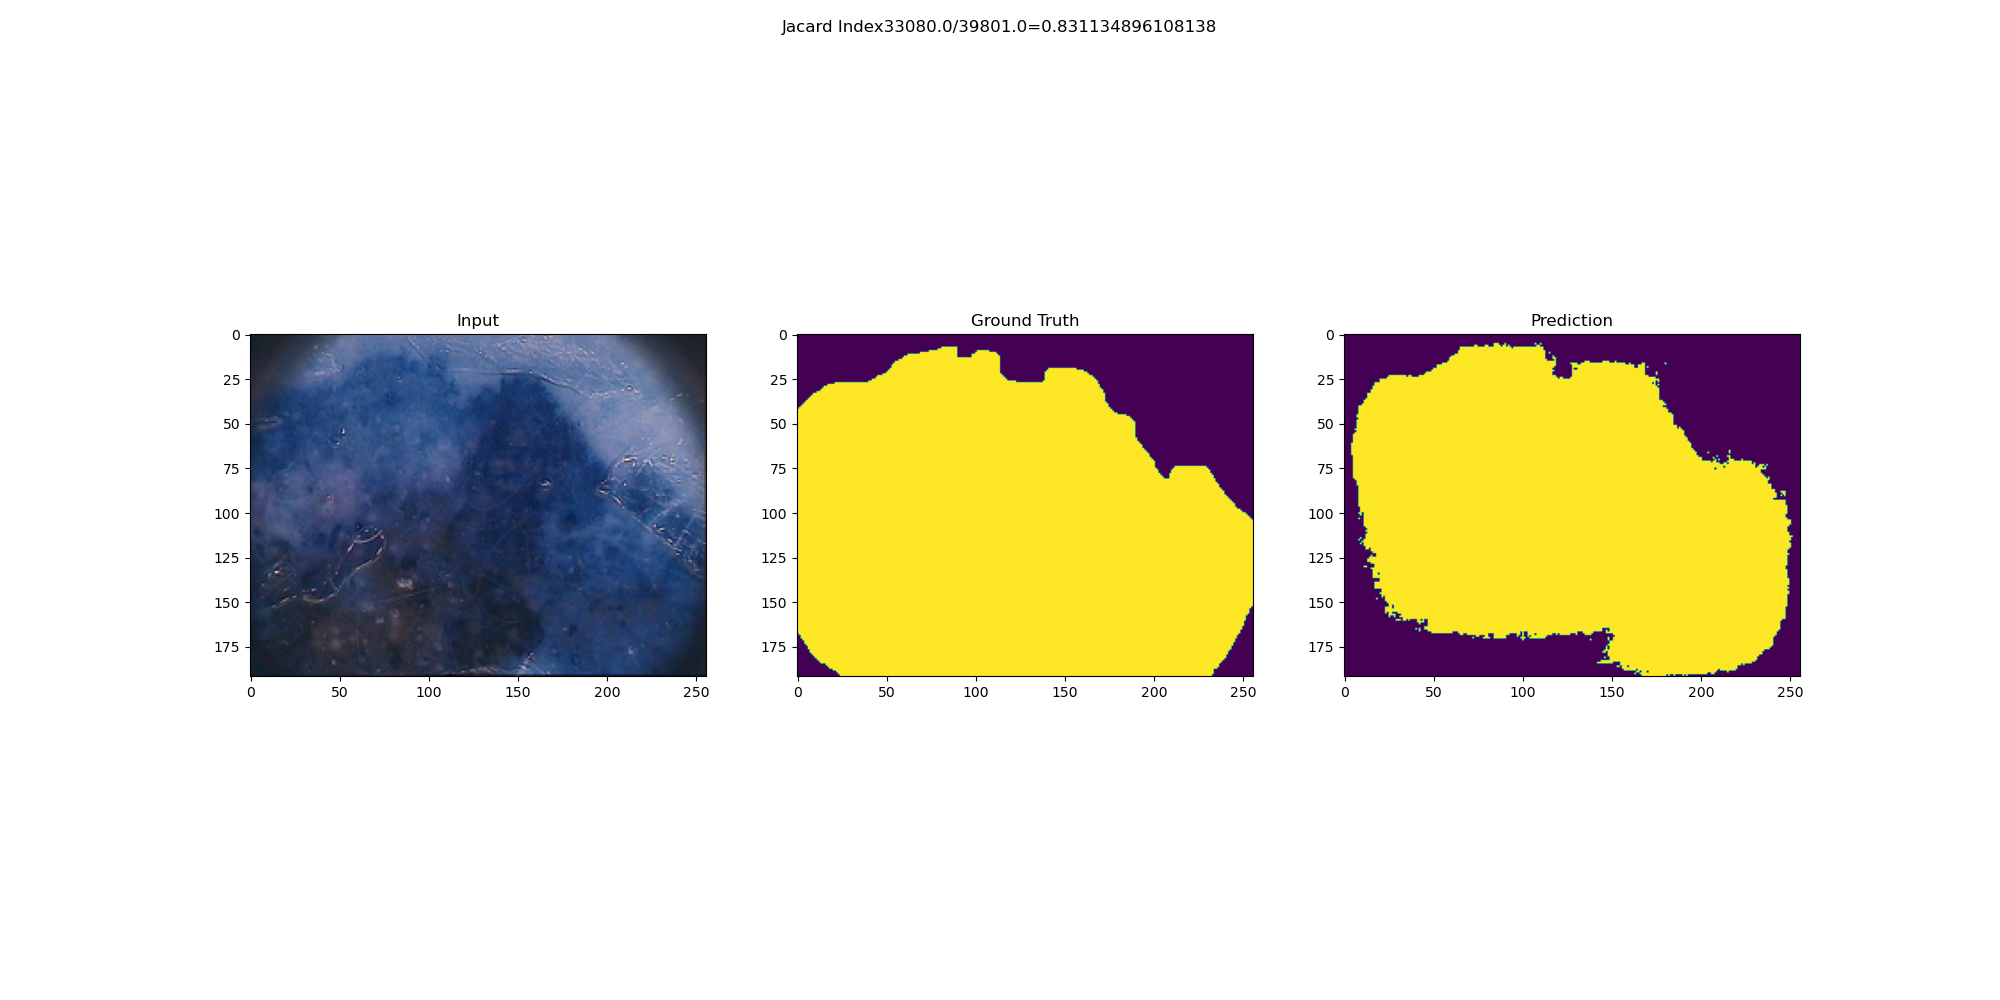
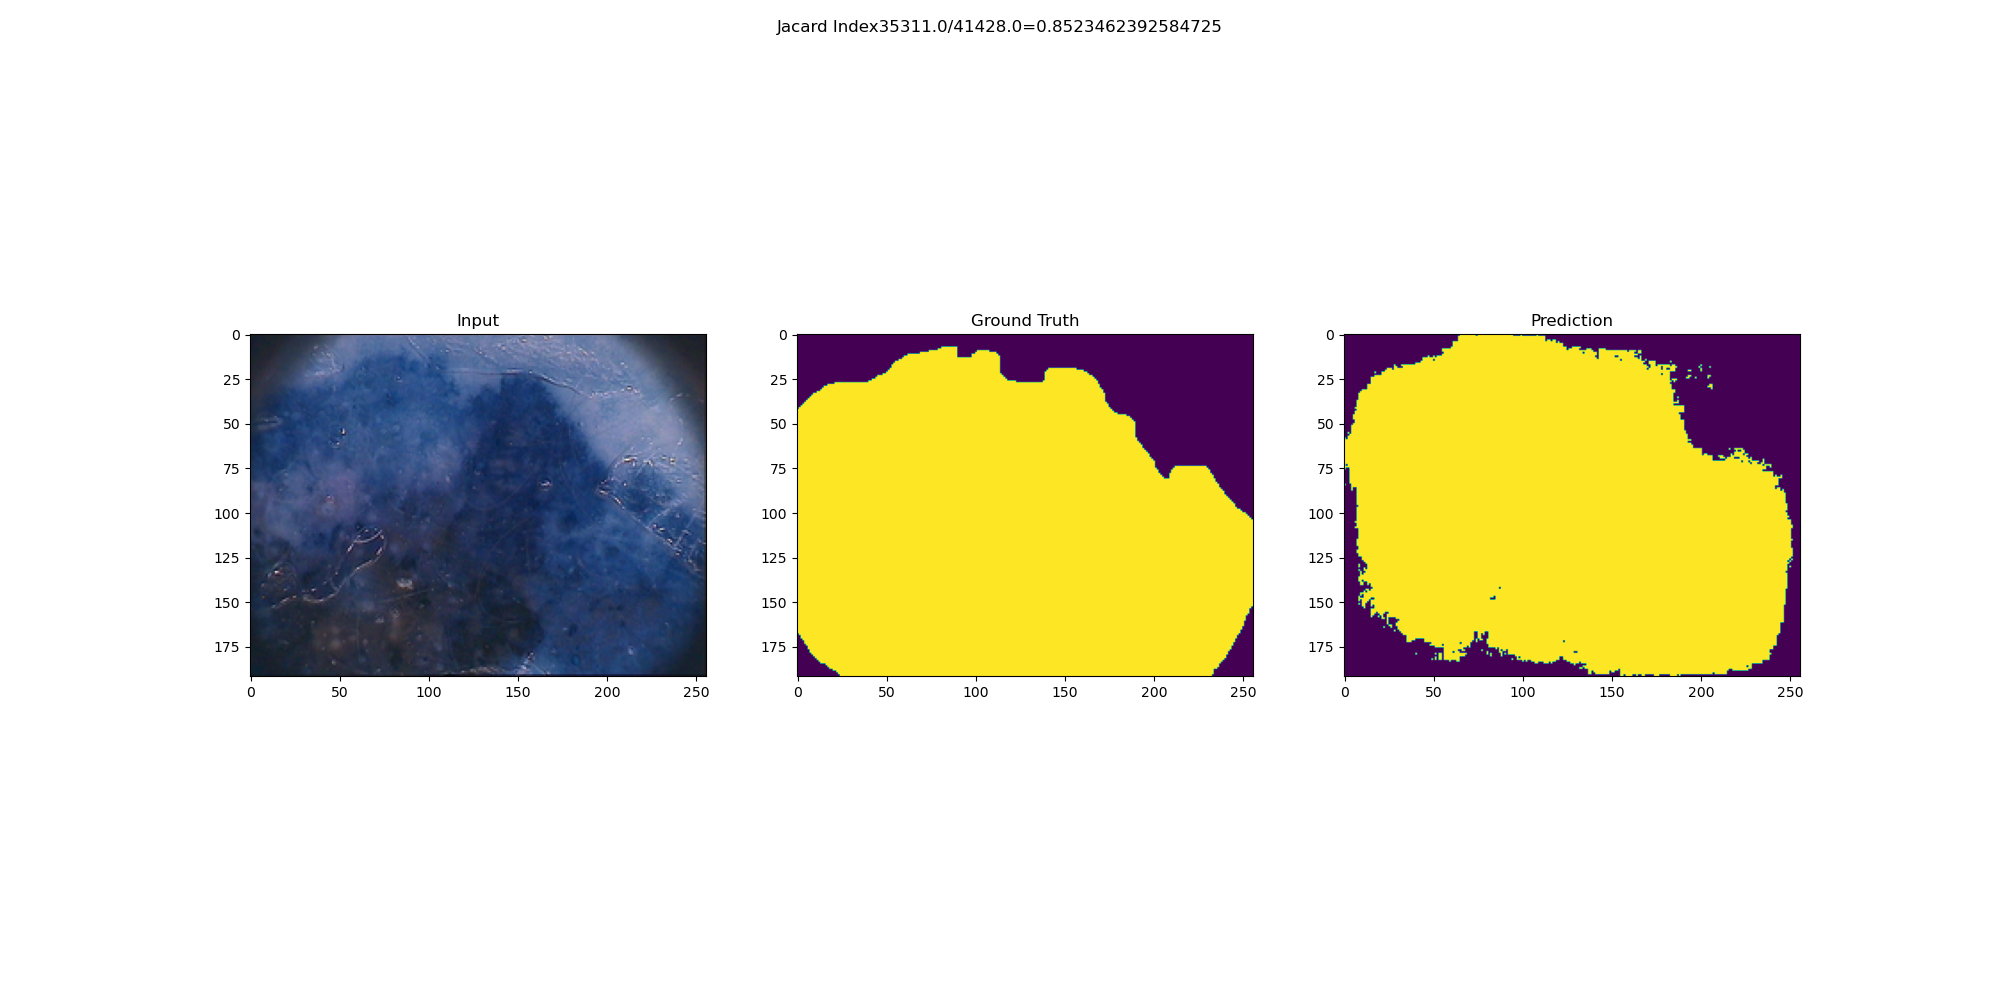
output

diff --git a/SKIN_LESION/drrmsan_tests/tests.py b/SKIN_LESION/drrmsan_tests/tests.py
@@ -271,7 +271,7 @@ for i in range(20):
     fp = open('models/best_attn_1_bothsides_skinleison.txt','w')
     fp.write('-1.0')
     fp.close()
-    trainStep(model, X_train, Y_train, X_test, Y_test, epochs=5, batchSize=2)
+    trainStep(model, X_train, Y_train, X_test, Y_test, epochs=20, batchSize=2)
 
 
 
